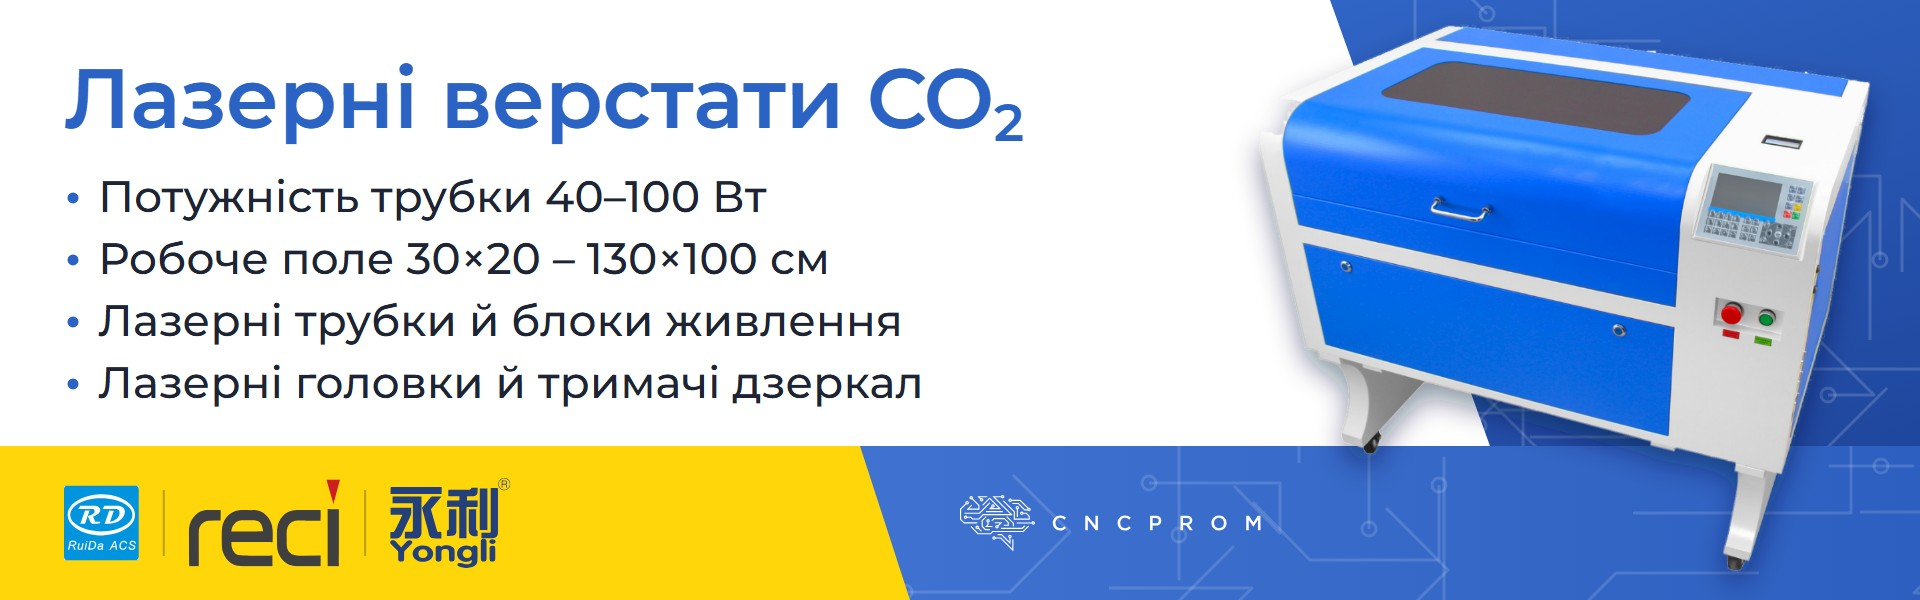
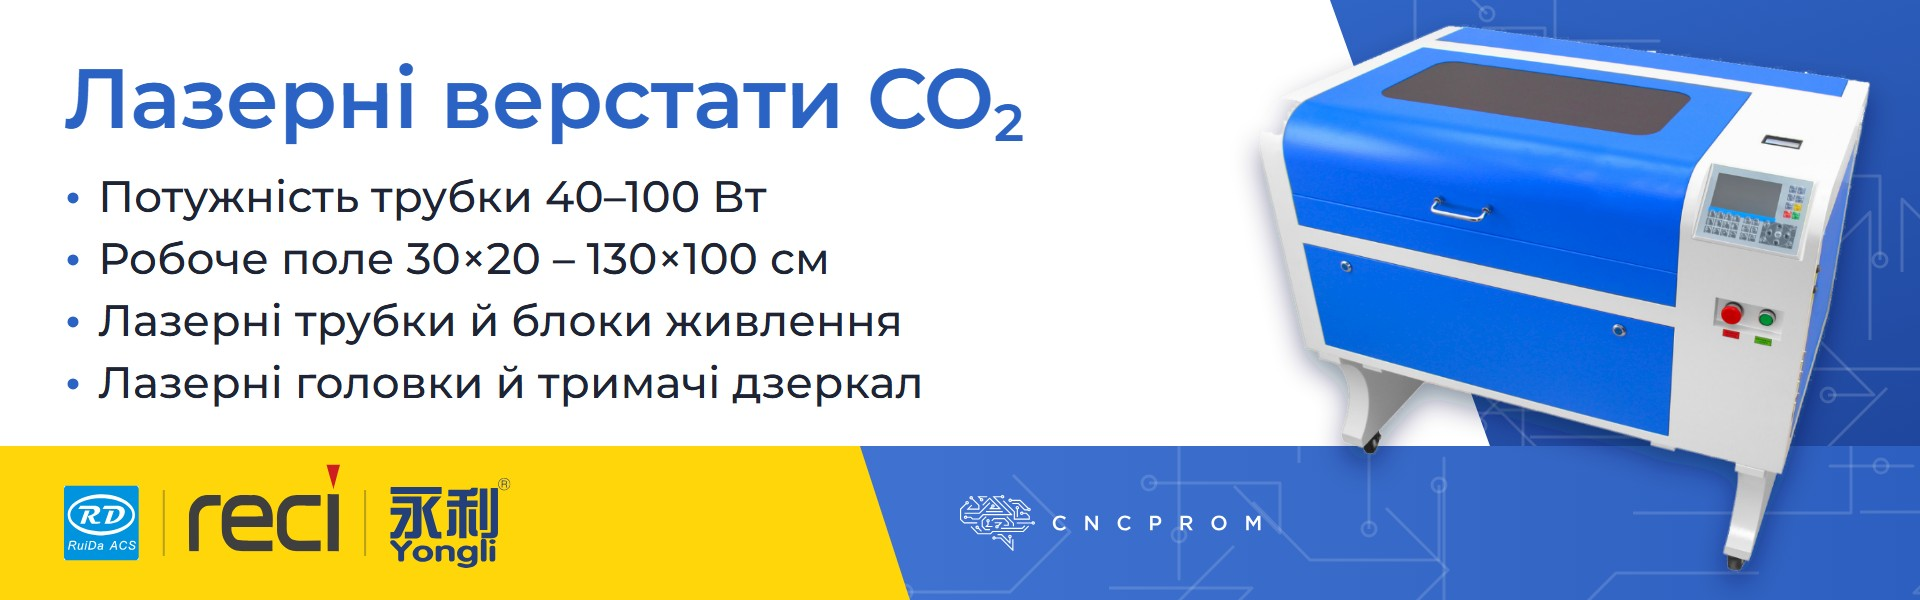
Банери класичні: логотип RECI вище на 15 px

Changed region(s): [[0.0938, 0.78, 0.1875, 0.96]]

diff --git a/static/ads/classic/index.html b/static/ads/classic/index.html
@@ -1,1 +1,1 @@
-<!doctype html><html lang="uk"><head><meta charset="utf-8"><meta name="viewport" content="width=device-width, initial-scale=1"><title>Банери CNCPROM: класичні</title><link rel="icon" href="/favicon.svg" type="image/svg+xml"><style>:root{color-scheme:dark}body{margin:0;background:#111418;color:#e6e9ef;font:14px/1.4 system-ui,sans-serif}.w{max-width:2200px;margin:0 auto;padding:16px}h1{font-size:18px;margin:0 0 6px}.lead{color:#a3abb9;margin:0 0 12px}.head,.row{display:grid;grid-template-columns:1fr 1fr;gap:16px}.head{position:sticky;top:0;background:#111418;padding:8px 0;z-index:1;font-weight:600}h2{font-size:15px;margin:18px 0 6px;font-weight:600}figure{margin:0}img{width:100%;display:block;border-radius:6px}figcaption{margin-top:4px;font-size:13px}figcaption a{color:#4fc3f7;margin-right:10px}@media (max-width:900px){.head,.row{grid-template-columns:1fr}}</style></head><body><div class="w"><h1>Банери 1920×600: класичні</h1><p class="lead">Ліворуч бренди текстом, праворуч логотипи брендів. Під кожним банером: SVG для Figma (текст редагується, шари названі), PNG і JPG.</p><div class="head"><div>Без логотипів</div><div>З логотипами брендів</div></div><h2>Волоконні лазерні маркери</h2><div class="row"><figure><img src="png/markers-D.png?v=b5351aab" alt="Волоконні лазерні маркери" loading="lazy"><figcaption><a href="svg/markers-D.svg?v=7d35f193" download>SVG</a> <a href="png/markers-D.png?v=b5351aab" download>PNG</a> <a href="jpg/markers-D.jpg?v=d8a5eea8" download>JPG</a></figcaption></figure><figure><img src="png/markers-D2.png?v=575d7ff7" alt="Волоконні лазерні маркери" loading="lazy"><figcaption><a href="svg/markers-D2.svg?v=cc786f57" download>SVG</a> <a href="png/markers-D2.png?v=575d7ff7" download>PNG</a> <a href="jpg/markers-D2.jpg?v=5b0125f2" download>JPG</a></figcaption></figure></div><h2>Акумулятори</h2><div class="row"><figure><img src="png/batteries-D.png?v=8d370b94" alt="Акумулятори" loading="lazy"><figcaption><a href="svg/batteries-D.svg?v=744c92a1" download>SVG</a> <a href="png/batteries-D.png?v=8d370b94" download>PNG</a> <a href="jpg/batteries-D.jpg?v=15719bd2" download>JPG</a></figcaption></figure><figure><img src="png/batteries-D2.png?v=b037ff03" alt="Акумулятори" loading="lazy"><figcaption><a href="svg/batteries-D2.svg?v=a8aa0ee5" download>SVG</a> <a href="png/batteries-D2.png?v=b037ff03" download>PNG</a> <a href="jpg/batteries-D2.jpg?v=ea7e285e" download>JPG</a></figcaption></figure></div><h2>Лазерні верстати CO₂</h2><div class="row"><figure><img src="png/co2-D.png?v=4d2b83db" alt="Лазерні верстати CO₂" loading="lazy"><figcaption><a href="svg/co2-D.svg?v=a3212631" download>SVG</a> <a href="png/co2-D.png?v=4d2b83db" download>PNG</a> <a href="jpg/co2-D.jpg?v=0ee481c6" download>JPG</a></figcaption></figure><figure><img src="png/co2-D2.png?v=5c572abb" alt="Лазерні верстати CO₂" loading="lazy"><figcaption><a href="svg/co2-D2.svg?v=ed5f7c59" download>SVG</a> <a href="png/co2-D2.png?v=5c572abb" download>PNG</a> <a href="jpg/co2-D2.jpg?v=c3408e39" download>JPG</a></figcaption></figure></div><h2>Фрезерні верстати</h2><div class="row"><figure><img src="png/milling-D.png?v=d36545eb" alt="Фрезерні верстати" loading="lazy"><figcaption><a href="svg/milling-D.svg?v=a8dab222" download>SVG</a> <a href="png/milling-D.png?v=d36545eb" download>PNG</a> <a href="jpg/milling-D.jpg?v=9bc87b0d" download>JPG</a></figcaption></figure><figure><img src="png/milling-D2.png?v=d36545eb" alt="Фрезерні верстати" loading="lazy"><figcaption><a href="svg/milling-D2.svg?v=a8dab222" download>SVG</a> <a href="png/milling-D2.png?v=d36545eb" download>PNG</a> <a href="jpg/milling-D2.jpg?v=9bc87b0d" download>JPG</a></figcaption></figure></div><h2>Лінійні напрямні HIWIN</h2><div class="row"><figure><img src="png/hiwin-D.png?v=020951a7" alt="Лінійні напрямні HIWIN" loading="lazy"><figcaption><a href="svg/hiwin-D.svg?v=7ad56639" download>SVG</a> <a href="png/hiwin-D.png?v=020951a7" download>PNG</a> <a href="jpg/hiwin-D.jpg?v=ab6040de" download>JPG</a></figcaption></figure><figure><img src="png/hiwin-D2.png?v=95339b40" alt="Лінійні напрямні HIWIN" loading="lazy"><figcaption><a href="svg/hiwin-D2.svg?v=2046c83c" download>SVG</a> <a href="png/hiwin-D2.png?v=95339b40" download>PNG</a> <a href="jpg/hiwin-D2.jpg?v=8505626d" download>JPG</a></figcaption></figure></div><h2>Шпинделі</h2><div class="row"><figure><img src="png/spindles-D.png?v=dcc64f87" alt="Шпинделі" loading="lazy"><figcaption><a href="svg/spindles-D.svg?v=62ce51d2" download>SVG</a> <a href="png/spindles-D.png?v=dcc64f87" download>PNG</a> <a href="jpg/spindles-D.jpg?v=77161731" download>JPG</a></figcaption></figure><figure><img src="png/spindles-D2.png?v=dcc64f87" alt="Шпинделі" loading="lazy"><figcaption><a href="svg/spindles-D2.svg?v=62ce51d2" download>SVG</a> <a href="png/spindles-D2.png?v=dcc64f87" download>PNG</a> <a href="jpg/spindles-D2.jpg?v=77161731" download>JPG</a></figcaption></figure></div><h2>Імпульсні блоки живлення</h2><div class="row"><figure><img src="png/psu-D.png?v=85dd514f" alt="Імпульсні блоки живлення" loading="lazy"><figcaption><a href="svg/psu-D.svg?v=01ad2c5f" download>SVG</a> <a href="png/psu-D.png?v=85dd514f" download>PNG</a> <a href="jpg/psu-D.jpg?v=4d9de32f" download>JPG</a></figcaption></figure><figure><img src="png/psu-D2.png?v=e8d87bcc" alt="Імпульсні блоки живлення" loading="lazy"><figcaption><a href="svg/psu-D2.svg?v=260d67e1" download>SVG</a> <a href="png/psu-D2.png?v=e8d87bcc" download>PNG</a> <a href="jpg/psu-D2.jpg?v=8dbf43ff" download>JPG</a></figcaption></figure></div><h2>Токарні верстати</h2><div class="row"><figure><img src="png/lathes-D.png?v=73e4b45b" alt="Токарні верстати" loading="lazy"><figcaption><a href="svg/lathes-D.svg?v=ca93c2a7" download>SVG</a> <a href="png/lathes-D.png?v=73e4b45b" download>PNG</a> <a href="jpg/lathes-D.jpg?v=db3cda8b" download>JPG</a></figcaption></figure><figure><img src="png/lathes-D2.png?v=73e4b45b" alt="Токарні верстати" loading="lazy"><figcaption><a href="svg/lathes-D2.svg?v=ca93c2a7" download>SVG</a> <a href="png/lathes-D2.png?v=73e4b45b" download>PNG</a> <a href="jpg/lathes-D2.jpg?v=db3cda8b" download>JPG</a></figcaption></figure></div><h2>Датчики</h2><div class="row"><figure><img src="png/sensors-D.png?v=4b220f7a" alt="Датчики" loading="lazy"><figcaption><a href="svg/sensors-D.svg?v=d185599f" download>SVG</a> <a href="png/sensors-D.png?v=4b220f7a" download>PNG</a> <a href="jpg/sensors-D.jpg?v=a98f65fc" download>JPG</a></figcaption></figure><figure><img src="png/sensors-D2.png?v=c7a8293b" alt="Датчики" loading="lazy"><figcaption><a href="svg/sensors-D2.svg?v=adec0b7e" download>SVG</a> <a href="png/sensors-D2.png?v=c7a8293b" download>PNG</a> <a href="jpg/sensors-D2.jpg?v=538d387e" download>JPG</a></figcaption></figure></div><h2>Синхронні мотор-редуктори</h2><div class="row"><figure><img src="png/gearmotors-D.png?v=0e6bfe59" alt="Синхронні мотор-редуктори" loading="lazy"><figcaption><a href="svg/gearmotors-D.svg?v=44841c09" download>SVG</a> <a href="png/gearmotors-D.png?v=0e6bfe59" download>PNG</a> <a href="jpg/gearmotors-D.jpg?v=22a80f82" download>JPG</a></figcaption></figure><figure><img src="png/gearmotors-D2.png?v=0e6bfe59" alt="Синхронні мотор-редуктори" loading="lazy"><figcaption><a href="svg/gearmotors-D2.svg?v=44841c09" download>SVG</a> <a href="png/gearmotors-D2.png?v=0e6bfe59" download>PNG</a> <a href="jpg/gearmotors-D2.jpg?v=22a80f82" download>JPG</a></figcaption></figure></div></div></body></html>
+<!doctype html><html lang="uk"><head><meta charset="utf-8"><meta name="viewport" content="width=device-width, initial-scale=1"><title>Банери CNCPROM: класичні</title><link rel="icon" href="/favicon.svg" type="image/svg+xml"><style>:root{color-scheme:dark}body{margin:0;background:#111418;color:#e6e9ef;font:14px/1.4 system-ui,sans-serif}.w{max-width:2200px;margin:0 auto;padding:16px}h1{font-size:18px;margin:0 0 6px}.lead{color:#a3abb9;margin:0 0 12px}.head,.row{display:grid;grid-template-columns:1fr 1fr;gap:16px}.head{position:sticky;top:0;background:#111418;padding:8px 0;z-index:1;font-weight:600}h2{font-size:15px;margin:18px 0 6px;font-weight:600}figure{margin:0}img{width:100%;display:block;border-radius:6px}figcaption{margin-top:4px;font-size:13px}figcaption a{color:#4fc3f7;margin-right:10px}@media (max-width:900px){.head,.row{grid-template-columns:1fr}}</style></head><body><div class="w"><h1>Банери 1920×600: класичні</h1><p class="lead">Ліворуч бренди текстом, праворуч логотипи брендів. Під кожним банером: SVG для Figma (текст редагується, шари названі), PNG і JPG.</p><div class="head"><div>Без логотипів</div><div>З логотипами брендів</div></div><h2>Волоконні лазерні маркери</h2><div class="row"><figure><img src="png/markers-D.png?v=b5351aab" alt="Волоконні лазерні маркери" loading="lazy"><figcaption><a href="svg/markers-D.svg?v=7d35f193" download>SVG</a> <a href="png/markers-D.png?v=b5351aab" download>PNG</a> <a href="jpg/markers-D.jpg?v=d8a5eea8" download>JPG</a></figcaption></figure><figure><img src="png/markers-D2.png?v=575d7ff7" alt="Волоконні лазерні маркери" loading="lazy"><figcaption><a href="svg/markers-D2.svg?v=cc786f57" download>SVG</a> <a href="png/markers-D2.png?v=575d7ff7" download>PNG</a> <a href="jpg/markers-D2.jpg?v=5b0125f2" download>JPG</a></figcaption></figure></div><h2>Акумулятори</h2><div class="row"><figure><img src="png/batteries-D.png?v=8d370b94" alt="Акумулятори" loading="lazy"><figcaption><a href="svg/batteries-D.svg?v=744c92a1" download>SVG</a> <a href="png/batteries-D.png?v=8d370b94" download>PNG</a> <a href="jpg/batteries-D.jpg?v=15719bd2" download>JPG</a></figcaption></figure><figure><img src="png/batteries-D2.png?v=b037ff03" alt="Акумулятори" loading="lazy"><figcaption><a href="svg/batteries-D2.svg?v=a8aa0ee5" download>SVG</a> <a href="png/batteries-D2.png?v=b037ff03" download>PNG</a> <a href="jpg/batteries-D2.jpg?v=ea7e285e" download>JPG</a></figcaption></figure></div><h2>Лазерні верстати CO₂</h2><div class="row"><figure><img src="png/co2-D.png?v=4d2b83db" alt="Лазерні верстати CO₂" loading="lazy"><figcaption><a href="svg/co2-D.svg?v=a3212631" download>SVG</a> <a href="png/co2-D.png?v=4d2b83db" download>PNG</a> <a href="jpg/co2-D.jpg?v=0ee481c6" download>JPG</a></figcaption></figure><figure><img src="png/co2-D2.png?v=42f82920" alt="Лазерні верстати CO₂" loading="lazy"><figcaption><a href="svg/co2-D2.svg?v=01590ef5" download>SVG</a> <a href="png/co2-D2.png?v=42f82920" download>PNG</a> <a href="jpg/co2-D2.jpg?v=746b840c" download>JPG</a></figcaption></figure></div><h2>Фрезерні верстати</h2><div class="row"><figure><img src="png/milling-D.png?v=d36545eb" alt="Фрезерні верстати" loading="lazy"><figcaption><a href="svg/milling-D.svg?v=a8dab222" download>SVG</a> <a href="png/milling-D.png?v=d36545eb" download>PNG</a> <a href="jpg/milling-D.jpg?v=9bc87b0d" download>JPG</a></figcaption></figure><figure><img src="png/milling-D2.png?v=d36545eb" alt="Фрезерні верстати" loading="lazy"><figcaption><a href="svg/milling-D2.svg?v=a8dab222" download>SVG</a> <a href="png/milling-D2.png?v=d36545eb" download>PNG</a> <a href="jpg/milling-D2.jpg?v=9bc87b0d" download>JPG</a></figcaption></figure></div><h2>Лінійні напрямні HIWIN</h2><div class="row"><figure><img src="png/hiwin-D.png?v=020951a7" alt="Лінійні напрямні HIWIN" loading="lazy"><figcaption><a href="svg/hiwin-D.svg?v=7ad56639" download>SVG</a> <a href="png/hiwin-D.png?v=020951a7" download>PNG</a> <a href="jpg/hiwin-D.jpg?v=ab6040de" download>JPG</a></figcaption></figure><figure><img src="png/hiwin-D2.png?v=95339b40" alt="Лінійні напрямні HIWIN" loading="lazy"><figcaption><a href="svg/hiwin-D2.svg?v=2046c83c" download>SVG</a> <a href="png/hiwin-D2.png?v=95339b40" download>PNG</a> <a href="jpg/hiwin-D2.jpg?v=8505626d" download>JPG</a></figcaption></figure></div><h2>Шпинделі</h2><div class="row"><figure><img src="png/spindles-D.png?v=dcc64f87" alt="Шпинделі" loading="lazy"><figcaption><a href="svg/spindles-D.svg?v=62ce51d2" download>SVG</a> <a href="png/spindles-D.png?v=dcc64f87" download>PNG</a> <a href="jpg/spindles-D.jpg?v=77161731" download>JPG</a></figcaption></figure><figure><img src="png/spindles-D2.png?v=dcc64f87" alt="Шпинделі" loading="lazy"><figcaption><a href="svg/spindles-D2.svg?v=62ce51d2" download>SVG</a> <a href="png/spindles-D2.png?v=dcc64f87" download>PNG</a> <a href="jpg/spindles-D2.jpg?v=77161731" download>JPG</a></figcaption></figure></div><h2>Імпульсні блоки живлення</h2><div class="row"><figure><img src="png/psu-D.png?v=85dd514f" alt="Імпульсні блоки живлення" loading="lazy"><figcaption><a href="svg/psu-D.svg?v=01ad2c5f" download>SVG</a> <a href="png/psu-D.png?v=85dd514f" download>PNG</a> <a href="jpg/psu-D.jpg?v=4d9de32f" download>JPG</a></figcaption></figure><figure><img src="png/psu-D2.png?v=e8d87bcc" alt="Імпульсні блоки живлення" loading="lazy"><figcaption><a href="svg/psu-D2.svg?v=260d67e1" download>SVG</a> <a href="png/psu-D2.png?v=e8d87bcc" download>PNG</a> <a href="jpg/psu-D2.jpg?v=8dbf43ff" download>JPG</a></figcaption></figure></div><h2>Токарні верстати</h2><div class="row"><figure><img src="png/lathes-D.png?v=73e4b45b" alt="Токарні верстати" loading="lazy"><figcaption><a href="svg/lathes-D.svg?v=ca93c2a7" download>SVG</a> <a href="png/lathes-D.png?v=73e4b45b" download>PNG</a> <a href="jpg/lathes-D.jpg?v=db3cda8b" download>JPG</a></figcaption></figure><figure><img src="png/lathes-D2.png?v=73e4b45b" alt="Токарні верстати" loading="lazy"><figcaption><a href="svg/lathes-D2.svg?v=ca93c2a7" download>SVG</a> <a href="png/lathes-D2.png?v=73e4b45b" download>PNG</a> <a href="jpg/lathes-D2.jpg?v=db3cda8b" download>JPG</a></figcaption></figure></div><h2>Датчики</h2><div class="row"><figure><img src="png/sensors-D.png?v=4b220f7a" alt="Датчики" loading="lazy"><figcaption><a href="svg/sensors-D.svg?v=d185599f" download>SVG</a> <a href="png/sensors-D.png?v=4b220f7a" download>PNG</a> <a href="jpg/sensors-D.jpg?v=a98f65fc" download>JPG</a></figcaption></figure><figure><img src="png/sensors-D2.png?v=c7a8293b" alt="Датчики" loading="lazy"><figcaption><a href="svg/sensors-D2.svg?v=adec0b7e" download>SVG</a> <a href="png/sensors-D2.png?v=c7a8293b" download>PNG</a> <a href="jpg/sensors-D2.jpg?v=538d387e" download>JPG</a></figcaption></figure></div><h2>Синхронні мотор-редуктори</h2><div class="row"><figure><img src="png/gearmotors-D.png?v=0e6bfe59" alt="Синхронні мотор-редуктори" loading="lazy"><figcaption><a href="svg/gearmotors-D.svg?v=44841c09" download>SVG</a> <a href="png/gearmotors-D.png?v=0e6bfe59" download>PNG</a> <a href="jpg/gearmotors-D.jpg?v=22a80f82" download>JPG</a></figcaption></figure><figure><img src="png/gearmotors-D2.png?v=0e6bfe59" alt="Синхронні мотор-редуктори" loading="lazy"><figcaption><a href="svg/gearmotors-D2.svg?v=44841c09" download>SVG</a> <a href="png/gearmotors-D2.png?v=0e6bfe59" download>PNG</a> <a href="jpg/gearmotors-D2.jpg?v=22a80f82" download>JPG</a></figcaption></figure></div></div></body></html>
